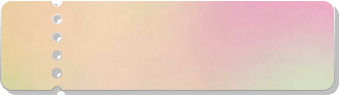
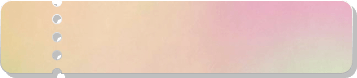
some ui changes.

diff --git a/src/views/verify-email/analyze-input-panel.tsx b/src/views/verify-email/analyze-input-panel.tsx
@@ -1,4 +1,16 @@
+import { useState, useEffect } from "react";
 import clsx from "clsx";
+
+const Texts = [
+  "69% to be investigated by @ZachXBT next",
+  "47% says “zoom out” while being down 63%",
+  "99% retarded",
+  "81% says “this is my last trade” at least once a week",
+  "58% watched a candle instead of sleeping and still lost money",
+  "66% bought because of a tweet",
+  "42% still waiting for a retest that never comes",
+  "76% round-tripped a winner because “it felt early",
+];
 
 export default function AnalyzeInputPanel({
   xProfileUrl,
@@ -8,6 +20,38 @@ export default function AnalyzeInputPanel({
   setIsBgSpread,
   onChangeHasAccount
 }: any) {
+  const [currentText, setCurrentText] = useState(Texts[0]);
+  const [nextText, setNextText] = useState("");
+  const [isAnimating, setIsAnimating] = useState(false);
+
+  useEffect(() => {
+    const interval = setInterval(() => {
+      const randomIndex = Math.floor(Math.random() * Texts.length);
+      const newText = Texts[randomIndex];
+
+      if (newText !== currentText) {
+        // 先设置新文本在下方
+        setNextText(newText);
+        setIsAnimating(false);
+
+        // 使用 requestAnimationFrame 确保 DOM 更新后再开始动画
+        requestAnimationFrame(() => {
+          requestAnimationFrame(() => {
+            setIsAnimating(true);
+
+            setTimeout(() => {
+              setCurrentText(newText);
+              setIsAnimating(false);
+              setNextText("");
+            }, 300);
+          });
+        });
+      }
+    }, 2000);
+
+    return () => clearInterval(interval);
+  }, [currentText]);
+
   const handleInputChange = (e: React.ChangeEvent<HTMLInputElement>) => {
     const value = e.target.value;
     // Prevent input if it contains spaces
@@ -56,7 +100,29 @@ export default function AnalyzeInputPanel({
           Go
         </button>
       </div>
-      {/* <div className="mt-[4px] text-center font-mono text-[18px] font-normal leading-[120%] tracking-[-1.08px] mt-[10px] text-[#8FFFC9]">5% to be investigate by @ZachXBT next.</div> */}
+      <div className="mt-[4px] text-center font-[Courier] text-[18px] font-normal leading-[120%] tracking-[-1.08px] mt-[10px] text-[#8FFFC9] overflow-hidden relative" style={{ minHeight: '22px' }}>
+        <div className="opacity-0 pointer-events-none h-[22px] flex items-center justify-center">{currentText}</div>
+        <div
+          className={clsx(
+            "transition-all duration-300 ease-in-out absolute top-0 left-0 right-0 text-center flex items-center justify-center",
+            isAnimating ? "translate-y-[-150%] opacity-0" : "translate-y-0 opacity-100"
+          )}
+          style={{ height: '22px' }}
+        >
+          {currentText}
+        </div>
+        {nextText && (
+          <div
+            className={clsx(
+              "transition-all duration-300 ease-in-out absolute top-0 left-0 right-0 text-center flex items-center justify-center",
+              isAnimating ? "translate-y-[150%] opacity-100" : "translate-y-0 opacity-0"
+            )}
+            style={{ height: '22px' }}
+          >
+            {nextText}
+          </div>
+        )}
+      </div>
       <div onClick={() => onChangeHasAccount(true)} className="mt-[180px] text-center text-white text-[14px] leading-[130%] underline cursor-pointer">
         I already have an account
       </div>

diff --git a/src/views/verify-email/analyze-result-panel.tsx b/src/views/verify-email/analyze-result-panel.tsx
@@ -140,9 +140,9 @@ export default function ResultPanel({ result, reward, onBackToAnalyze }: any) {
         </div>
       </div>
       {reward > 0 ? <VoucherPanel reward={reward} login={handleLogin} /> : <NoVoucherPanel reward={reward} login={handleLogin} />}
-      <div onClick={() => onBackToAnalyze()} className="mt-[40px] text-center text-white text-[14px] leading-[130%] underline cursor-pointer">
+      {/* <div onClick={() => onBackToAnalyze()} className="mt-[40px] text-center text-white text-[14px] leading-[130%] underline cursor-pointer">
         Back to analyze
-      </div>
+      </div> */}
       <SavedImage
         imageRef={savedImageRef}
         result={result}
@@ -165,8 +165,8 @@ export const NoVoucherPanel = ({ reward, login }: any) => {
   return (
     <>
       <div className="w-[542px] mt-[20px] text-center font-mono text-[16px] font-normal leading-[120%] tracking-[-1.08px] text-white">
-        <div>Your dolla eligibility index (DEI) is {reward}.</div>
-        <div className="mt-[8px]">Complete the following tasks to the access.</div>
+        <div>Your Dolla Eligibility Index (DEI) is too low.</div>
+        <div className="mt-[4px] leading-[150%]">Get access via another user's referral link or complete the following tasks:</div>
       </div>
       <div className="w-[542px] px-[24px] py-[16px] mt-[20px] font-[Courier] rounded-[20px] border border-[#3E300E] bg-[#3F3F3F99] shadow-[0_2px_6px_0_rgba(0,0,0,0.25)_inset] backdrop-blur-[10px]">
         <div className="flex flex-col gap-[10px]">
@@ -282,19 +282,15 @@ const VoucherPanel = ({ reward, login }: any) => {
         <div>Your dolla eligibility index (DEI) is {reward}.</div>
         <div className="mt-[8px]">Congrats! You've got voucher.</div>
       </div>
-      <div className="w-[340px] h-[95px] font-[Courier] mt-[20px] shrink-0 bg-[url('/verify/voucher-bg.png')] bg-cover bg-center">
-        <div className="h-full flex items-center gap-[18px] pl-[74px]">
-          <div className="text-center leading-[100%]">
-            <div className="text-[30px] font-[700]">${reward} Voucher</div>
-            <button
-              className="text-[14px] underline cursor-pointer mt-[8px]"
-              onClick={goToApp}
-            >
-              Login by X
-            </button>
-          </div>
-          <button
-            onClick={goToApp}
+      <div className="w-[357px] h-[78px] flex items-center justify-center pl-[50px] font-[Courier] mt-[20px] text-[30px] font-[700] shrink-0 bg-[url('/verify/voucher-bg.png')] bg-cover bg-center">
+        {reward} USDT Voucher
+      </div>
+      <Button
+        onClick={goToApp}
+        className="mx-auto mt-[10px] px-[20px] h-[50px] gap-[12px] rounded-[12px] !bg-[#FFC42F] !text-[#000] mt-[8px] text-[14px] font-[Unbounded]"
+      >
+        <span>Login by X to claim</span>
+        <div
             className="w-[36px] h-[36px] rounded-full bg-black flex items-center justify-center cursor-pointer"
           >
             <svg
@@ -311,10 +307,10 @@ const VoucherPanel = ({ reward, login }: any) => {
                 strokeLinecap="round"
                 strokeLinejoin="round"
               />
-            </svg>
-          </button>
+          </svg>
         </div>
-      </div>
+      </Button>
+
     </>
   );
 };

diff --git a/src/views/verify-email/login-panel.tsx b/src/views/verify-email/login-panel.tsx
@@ -74,8 +74,10 @@ export default function LoginPanel({ onChangeHasAccount, setIsBgSpread }: any) {
     handleSendCode();
   }, [user]);
 
-  return <div className="h-[400px] flex flex-col items-center pt-[80px]">
-    <div className="text-white text-[18px] leading-[130%] uppercase mb-[30px]"> <span className="font-bold">Dolla Market</span> <span className="text-[#FFB700] font-bold text-[20px]">$1</span> Infinite Exposure.</div>
+  return <div className="h-[500px] flex flex-col items-center pt-[40px]">
+    <div className="text-white text-[42px] text-center font-bold">Dolla Market </div>
+    <div className="text-[#FFC42F] text-[18px] text-center uppercase"> $1. Infinite Exposure.</div>
+    <div className="mt-[8px] mb-[30px] text-white text-[12px] text-center w-[345px] leading-[130%]">Get exposure to blue chip assets that's out of reach, one dolla at a time.</div>
     {user ? (
       <div className="w-[300px] relative mt-[16px]">
         <Button
@@ -133,12 +135,12 @@ export default function LoginPanel({ onChangeHasAccount, setIsBgSpread }: any) {
         onMouseOver={() => setIsBgSpread(true)}
         onMouseOut={() => setIsBgSpread(false)}
       >
-        Open App
+          Sign In
       </Button>
     )
     }
     <div onClick={() => onChangeHasAccount(false)} className="mt-[40px] text-center text-white text-[14px] leading-[130%] underline cursor-pointer">
-      Back to analyze
+      Back
     </div>
   </div>;
 }

diff --git a/src/service/kol-anysis.ts b/src/service/kol-anysis.ts
@@ -8,18 +8,6 @@ class DollaService {
   }
 
   /**
-   * Generate invite code
-   * @param code Invite code
-   * @param redirect_url Redirect URL
-   */
-  async generateCode(code: string, redirect_url: string) {
-    return this.api.post("/api/v1/code/invite/gift/generate", {
-      code,
-      redirect_url
-    });
-  }
-
-  /**
    * Check reward
    * @param username Twitter username
    */

diff --git a/src/index.css b/src/index.css
@@ -44,6 +44,12 @@
 
 @font-face {
   font-family: "Courier";
+  src: url("/fonts/CourierPrime-Regular.ttf");
+  font-weight: 400;
+}
+
+@font-face {
+  font-family: "Courier";
   src: url("/fonts/CourierPrime-Bold.ttf");
   font-weight: 700;
 }
